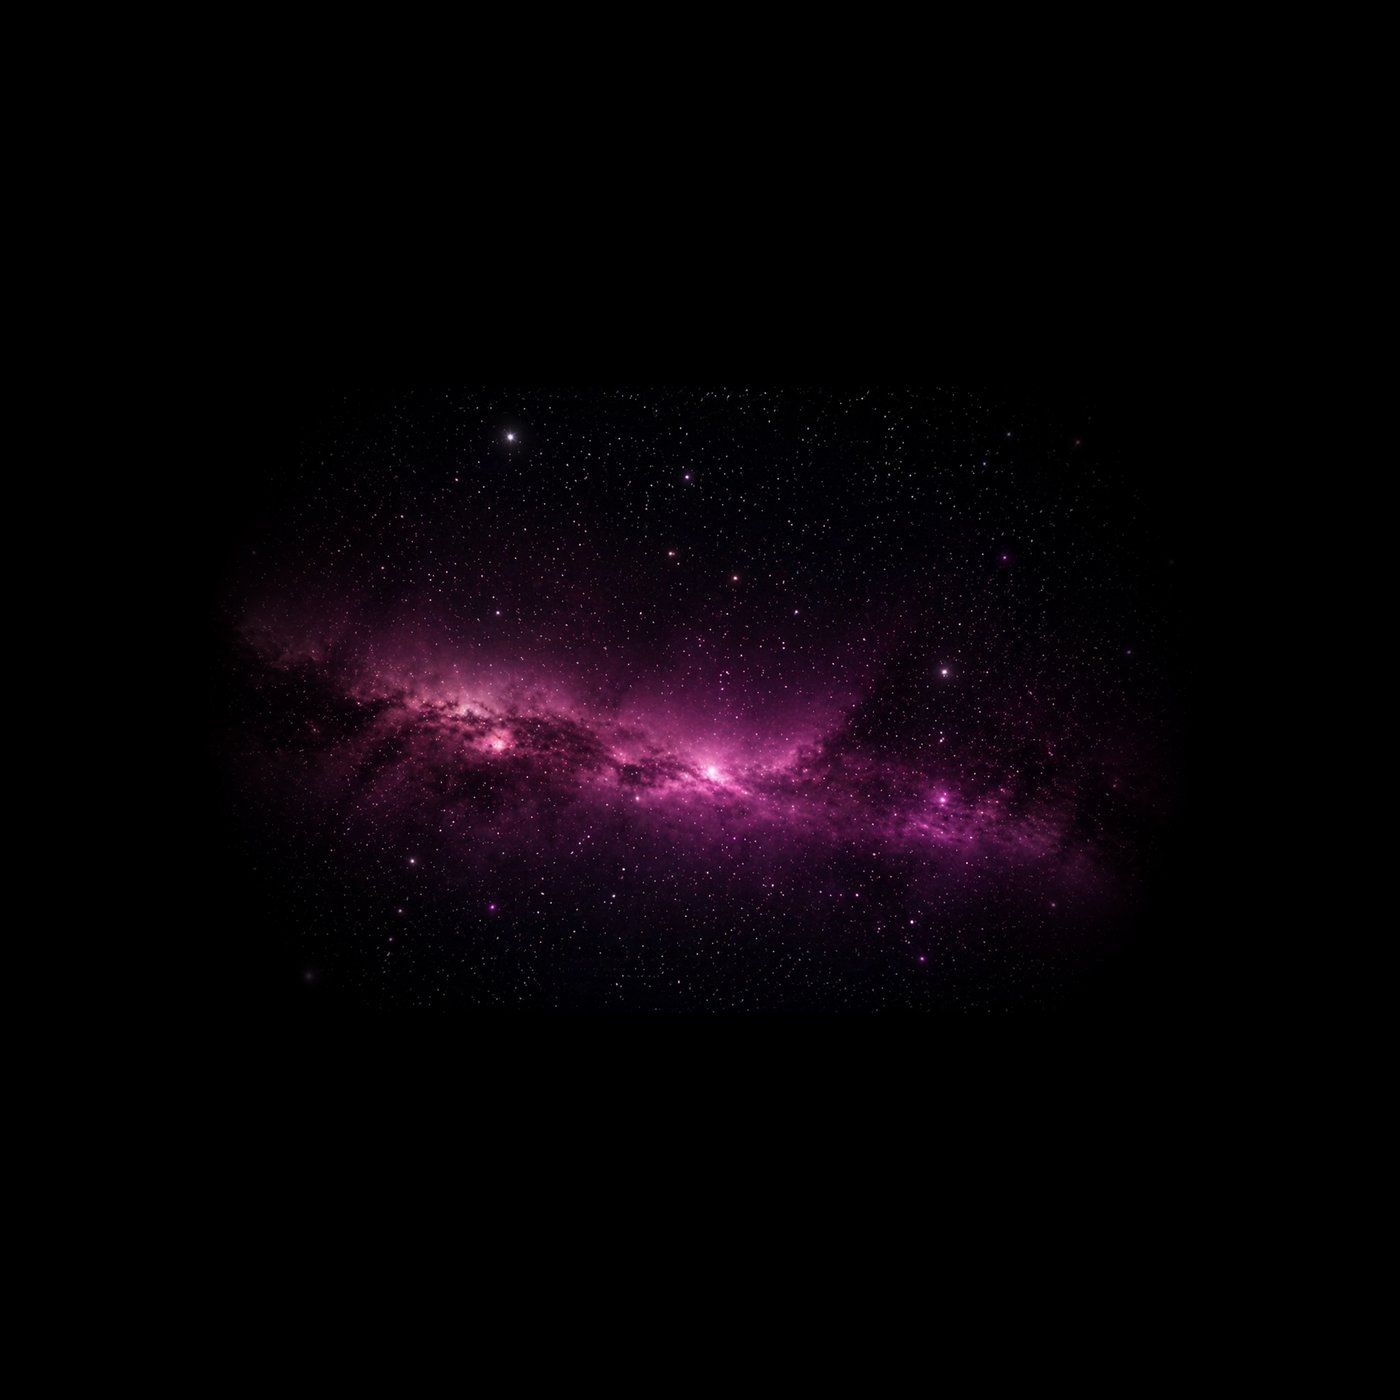
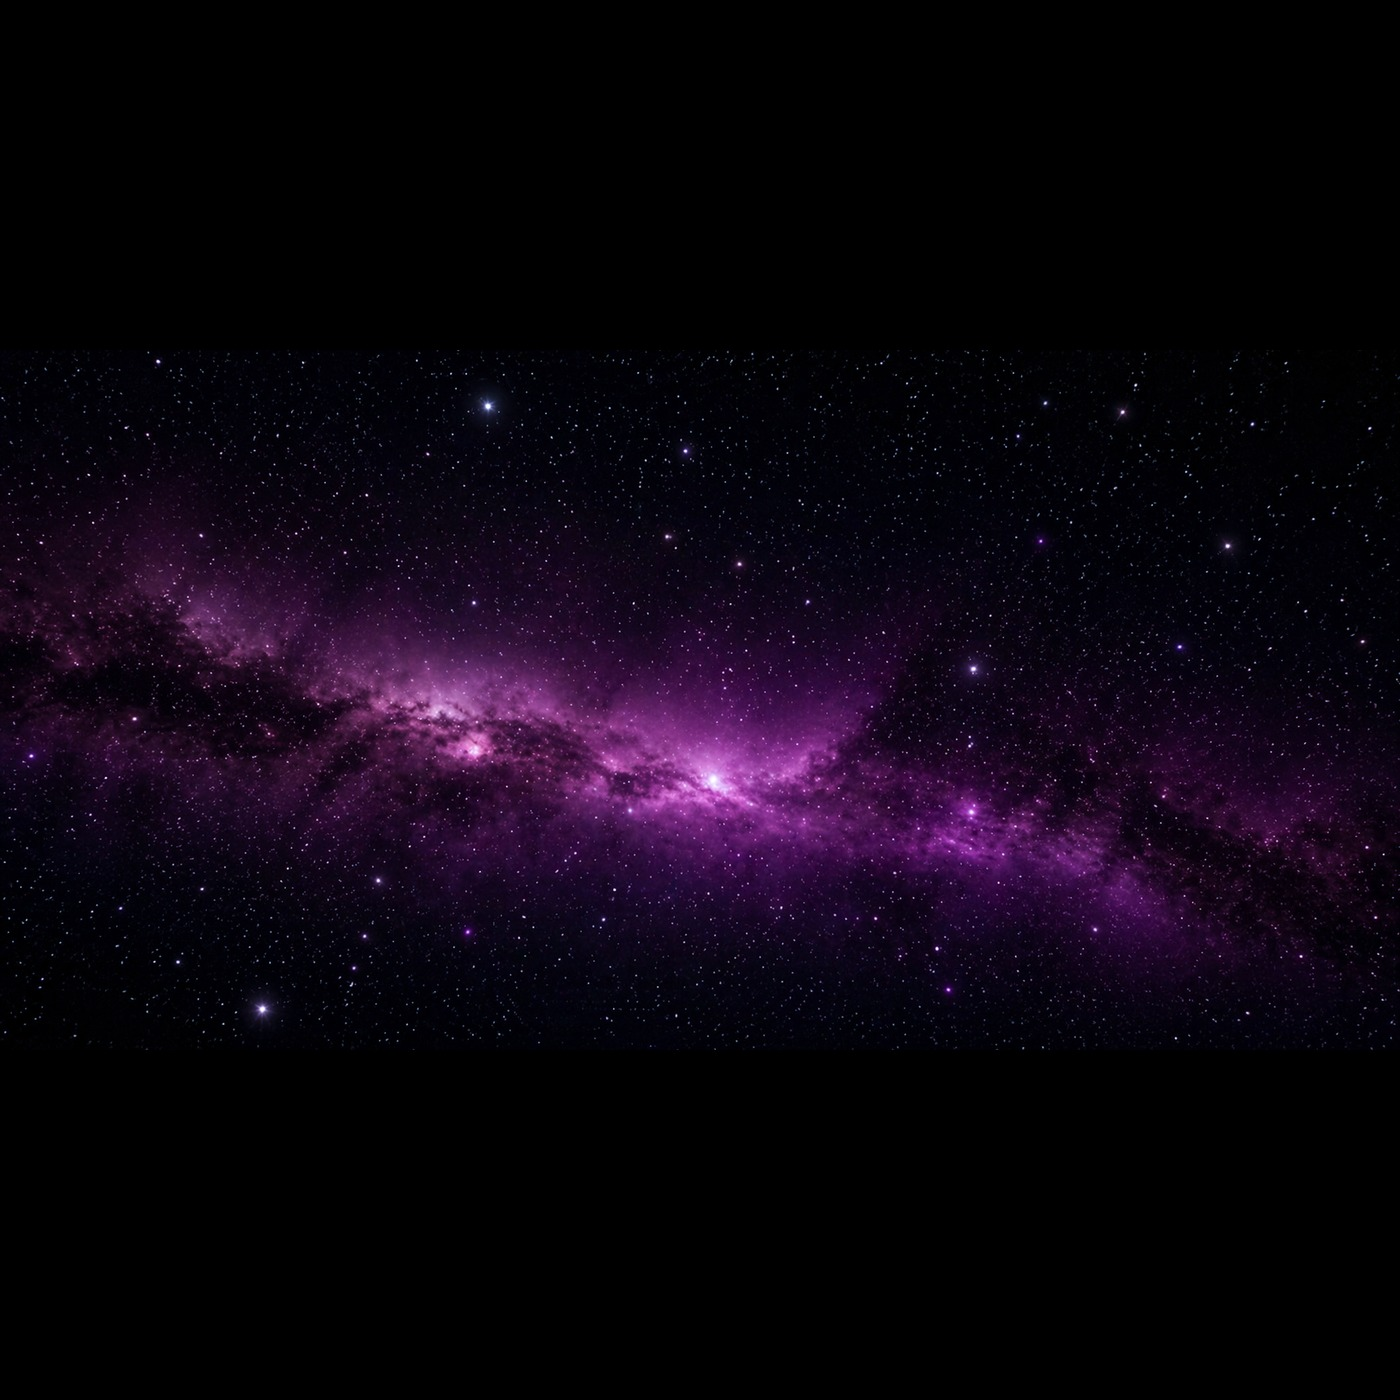
ajustement couleur

diff --git a/src/Assets/styles/Header/NavMenu.css b/src/Assets/styles/Header/NavMenu.css
@@ -11,7 +11,7 @@
   font-size: 0.9rem;
   font-weight: bold;
   letter-spacing: 1.5px;
-  color: #bd4a8a;
+  color: #f7a8e0;
   -webkit-tap-highlight-color: transparent;
   transition: color 0.15s, opacity 0.2s;
 }
@@ -45,7 +45,7 @@
   display: block;
   width: 22px;
   height: 2px;
-  background-color: #ab3f7a;
+  background-color: #f7a8e0;
   border-radius: 1px;
   transition: transform 0.25s, opacity 0.25s;
 }
@@ -88,7 +88,7 @@
   font-weight: bold;
   font-family: 'Orbitron', sans-serif;
   letter-spacing: 4px;
-  color: #9b5de5;
+  color: #f7a8e0;
   -webkit-tap-highlight-color: transparent;
   transition: color 0.15s, opacity 0.2s;
 }

diff --git a/src/Assets/styles/Main/Accueil/ContactPreview.css b/src/Assets/styles/Main/Accueil/ContactPreview.css
@@ -15,7 +15,7 @@
 }
 
 .action-btn {
-  background: #741fa7;
+  background: #9d40d5;
   color: white;
   font-family: 'Orbitron', sans-serif;
   font-size: 0.78rem;
@@ -147,7 +147,7 @@
 }
 
 .contact-me-btn {
-  background: #bf4a8a;
+  background: #e775b3;
   border: 1px solid white;
   color: white;
   font-family: 'Orbitron', sans-serif;

diff --git a/src/Assets/styles/Header/LanguageSwitcher.css b/src/Assets/styles/Header/LanguageSwitcher.css
@@ -1,6 +1,6 @@
 .language-switcher .btn {
   background: none;
-  color: #e966c6;
+  color: #f7a8e0;
   border: none;
   font-size: 0.9rem;
   font-weight: bold;
